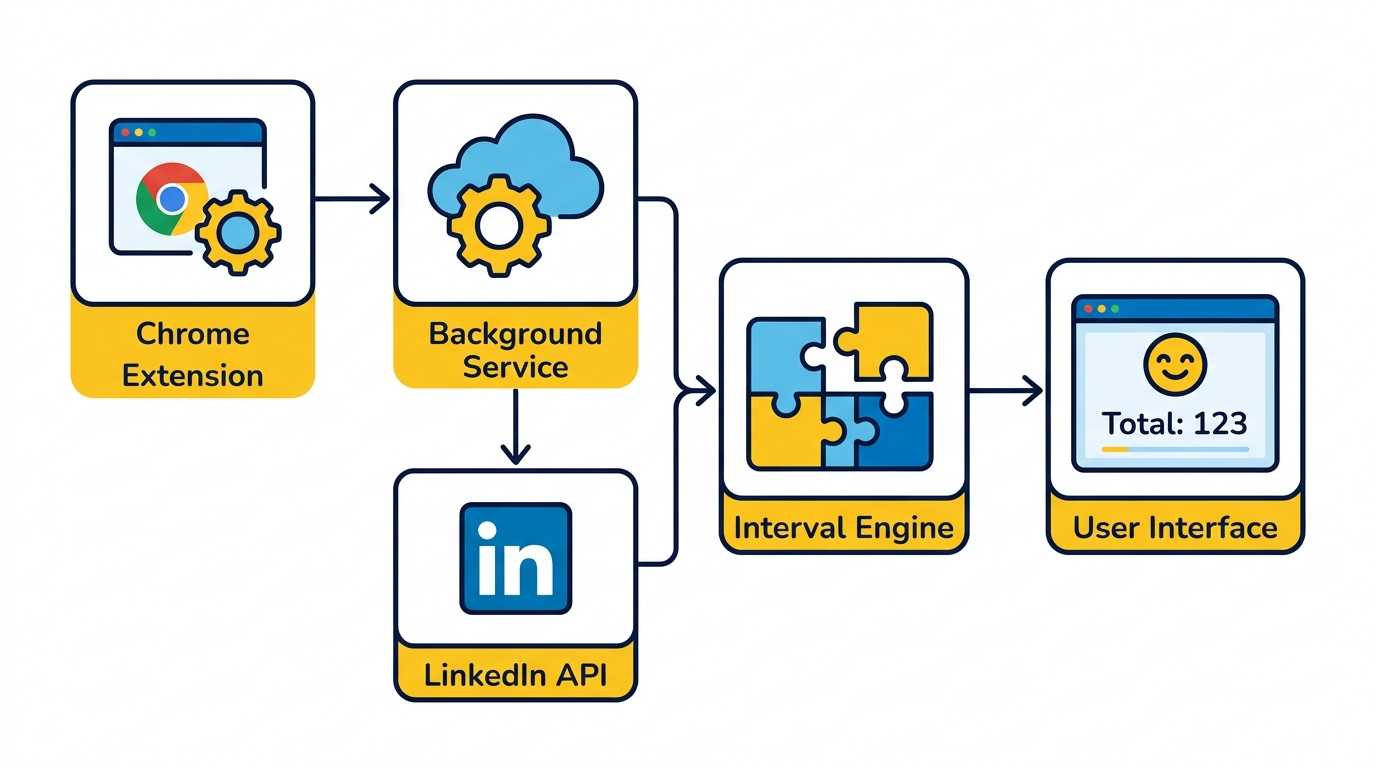
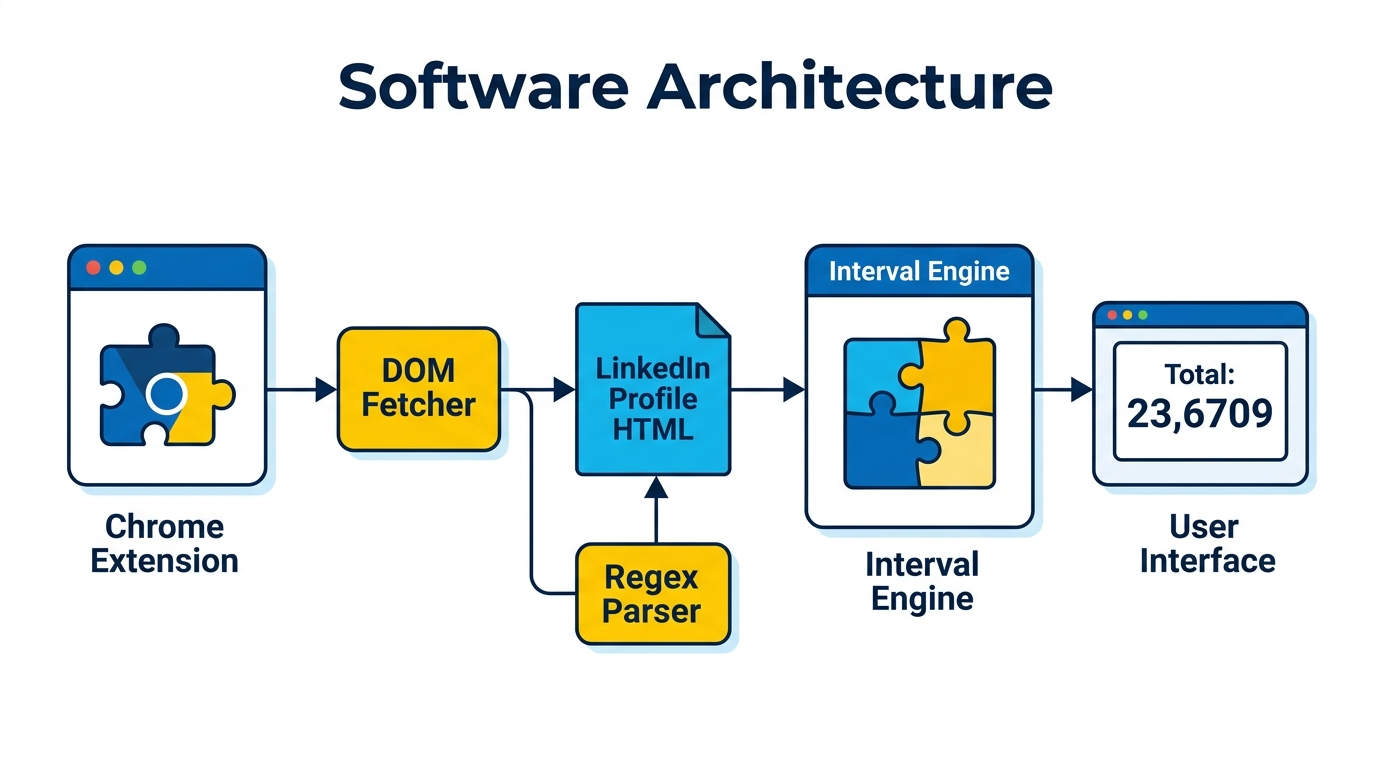
Update homepage copy and architecture image to reflect actual DOM scraping implementation

diff --git a/src/LinkedInExperienceCalculator/homepage/index.html b/src/LinkedInExperienceCalculator/homepage/index.html
@@ -96,7 +96,7 @@
     </div>
     
     <h2>How it Works</h2>
-    <p>Instead of relying on messy HTML scraping, the extension uses a clean Event-Driven architecture to fetch and calculate your data directly from the source!</p>
+    <p>The extension securely fetches the profile's Experience HTML in the background, extracts the dates using a specialized Regex Parser, and deduplicates the timeline locally in your browser!</p>
     
     <img src="../architecture.jpg" alt="Architecture Diagram" class="arch-diagram">
 
